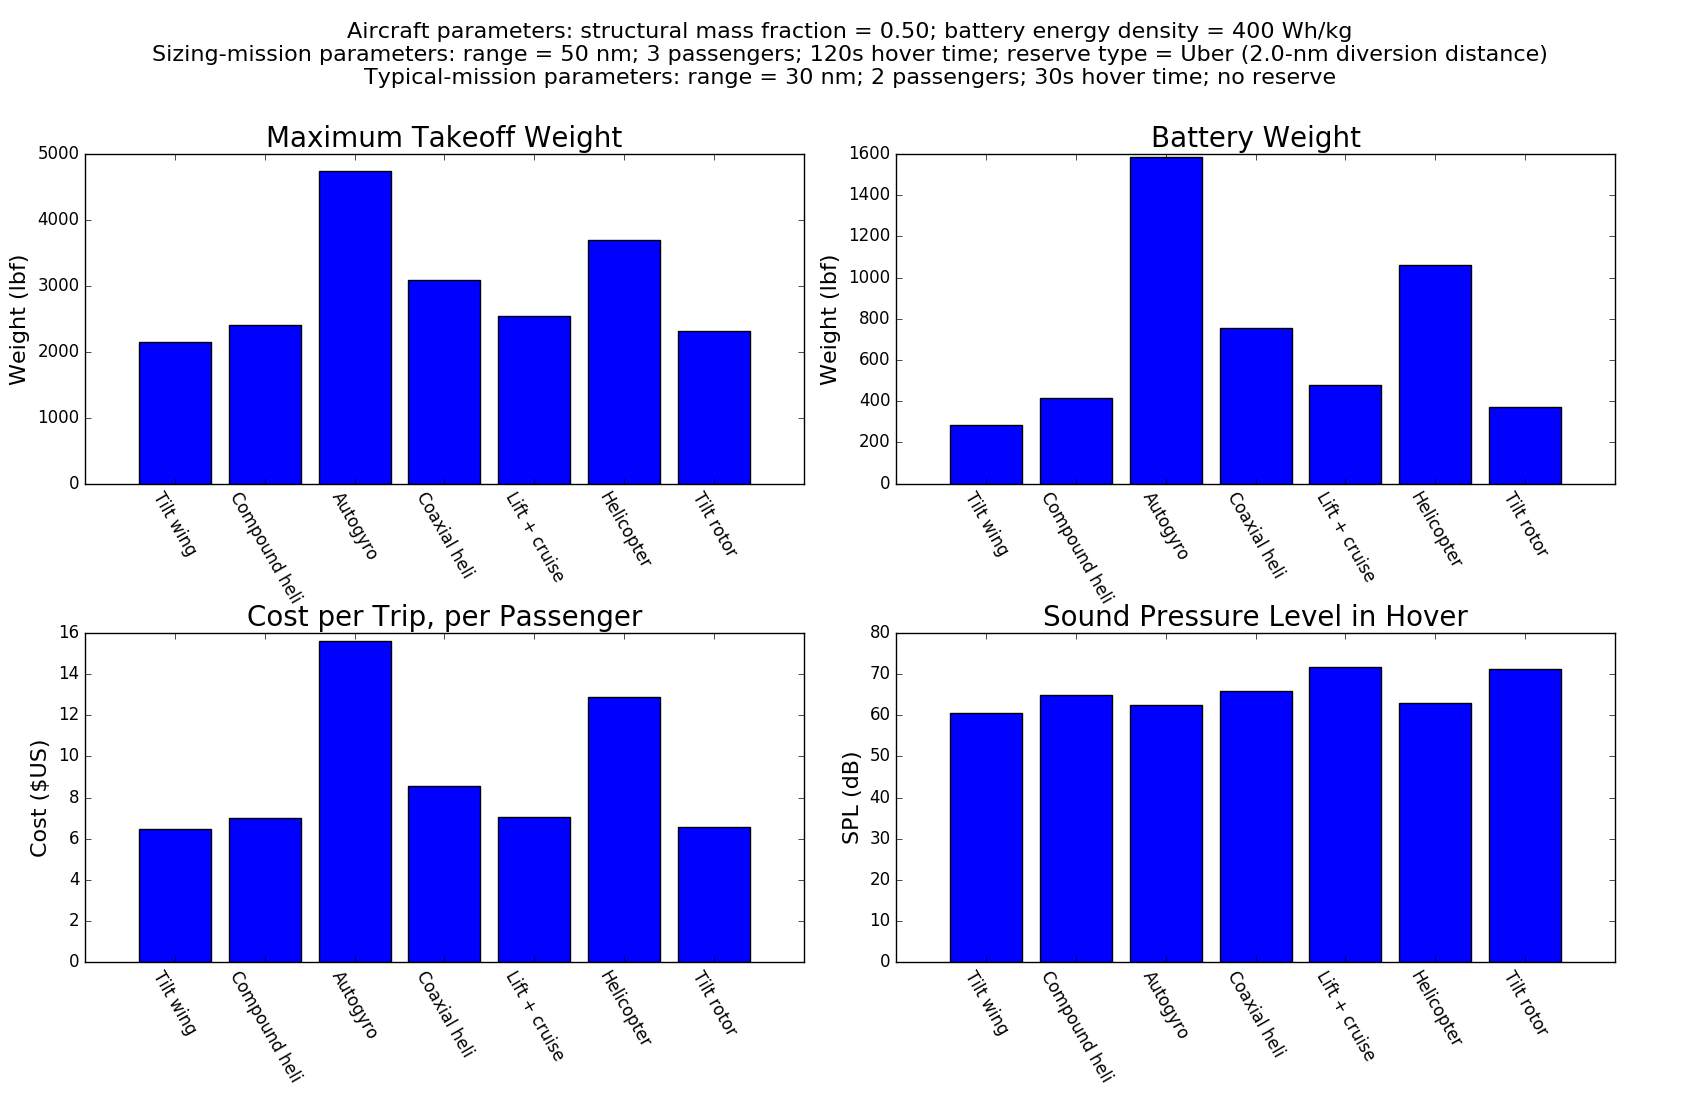
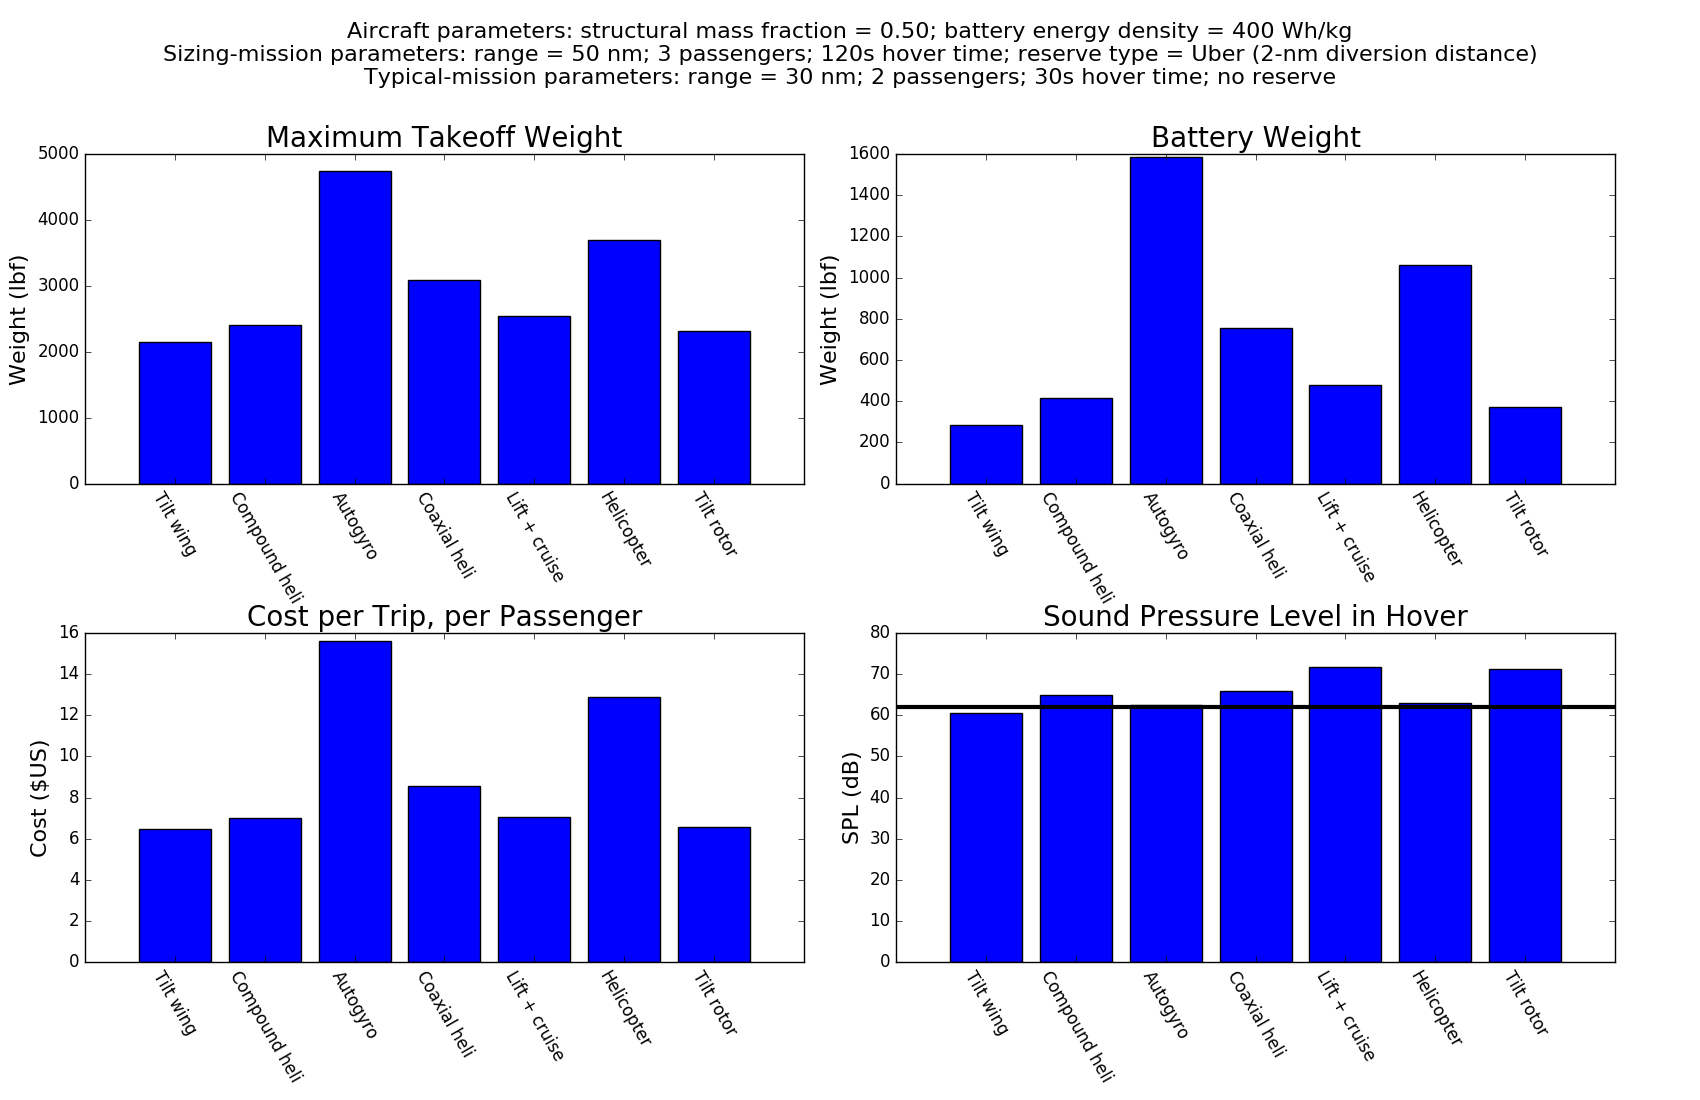
Add noise threshold to plot

Changed region(s): [[0.0935, 0.0309, 0.9041, 0.0618], [0.7171, 0.6182, 0.9353, 0.6491], [0.53, 0.6182, 0.6547, 0.6491]]

diff --git a/config_tradeStudy.py b/config_tradeStudy.py
@@ -167,31 +167,21 @@ for i, config in enumerate(configs):
 	SPL_sizing  = np.array(20*np.log10(configs[config]["solution"]["variables"]["p_{ratio}_OnDemandSizingMission"]))
 	plt.bar(i,SPL_sizing,align='center',alpha=1)
 
+SPL_req = 62
+plt.plot([np.min(y_pos)-1,np.max(y_pos)+1],[SPL_req, SPL_req],
+	color="black", linewidth=3, linestyle="-")
+
 plt.xticks(y_pos, labels, rotation=-60)
 plt.ylabel('SPL (dB)', fontsize = 16)
 plt.title("Sound Pressure Level in Hover",fontsize = 20)
 
-'''
-sizing_mission_range = 50*ureg.nautical_mile
-typical_mission_range = 30*ureg.nautical_mile
-
-sizing_time_in_hover=120*ureg.s
-typical_time_in_hover=30*ureg.s
-
-sizing_N_passengers = 3
-typical_N_passengers = 2
-
-cost_per_weight=112*ureg.lbf**-1
-pilot_salary = 40*ureg.hr**-1
-mechanic_salary=30*ureg.hr**-1
-'''
 
 if reserve_type == "FAA":
 	num = solution["constants"]["t_{loiter}_OnDemandSizingMission"].to(ureg.minute).magnitude
 	reserve_type_string = " (%0.0f-minute loiter time)" % num
 if reserve_type == "Uber":
 	num = solution["constants"]["R_{divert}_OnDemandSizingMission"].to(ureg.nautical_mile).magnitude
-	reserve_type_string = " (%0.1f-nm diversion distance)" % num
+	reserve_type_string = " (%0.0f-nm diversion distance)" % num
 
 title_str = "Aircraft parameters: structural mass fraction = %0.2f; battery energy density = %0.0f Wh/kg\n" \
 	% (weight_fraction, C_m.to(ureg.Wh/ureg.kg).magnitude) \
